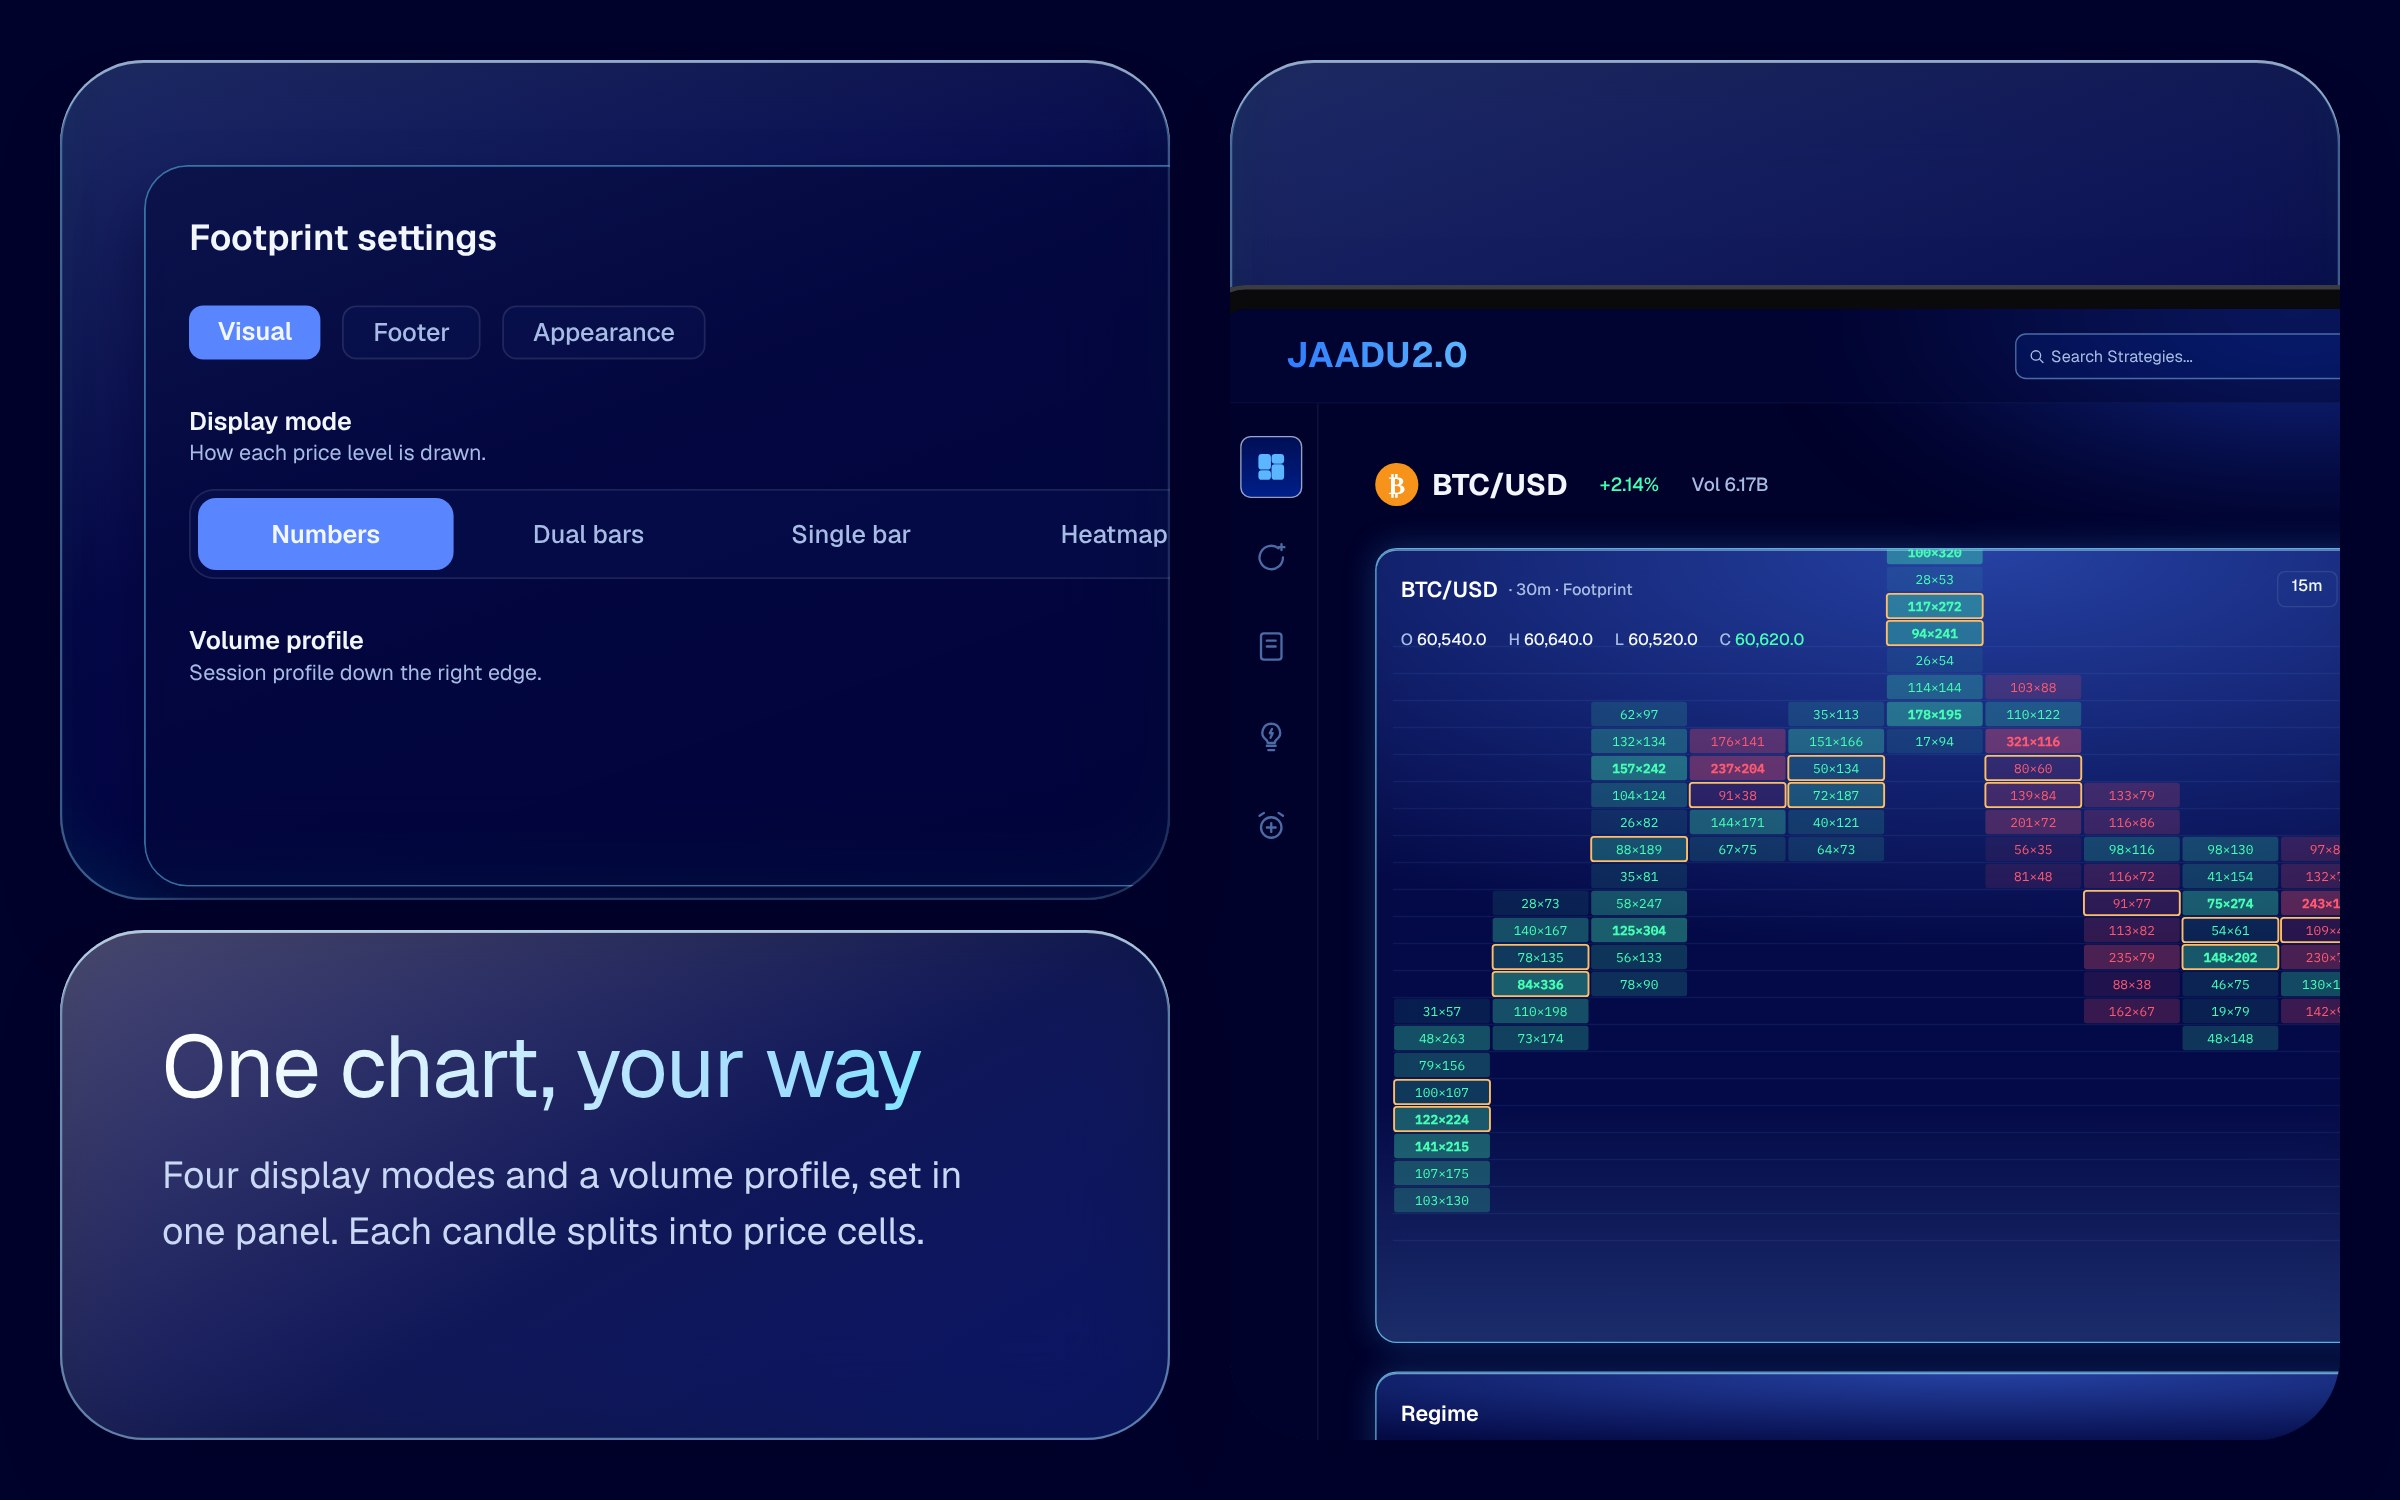
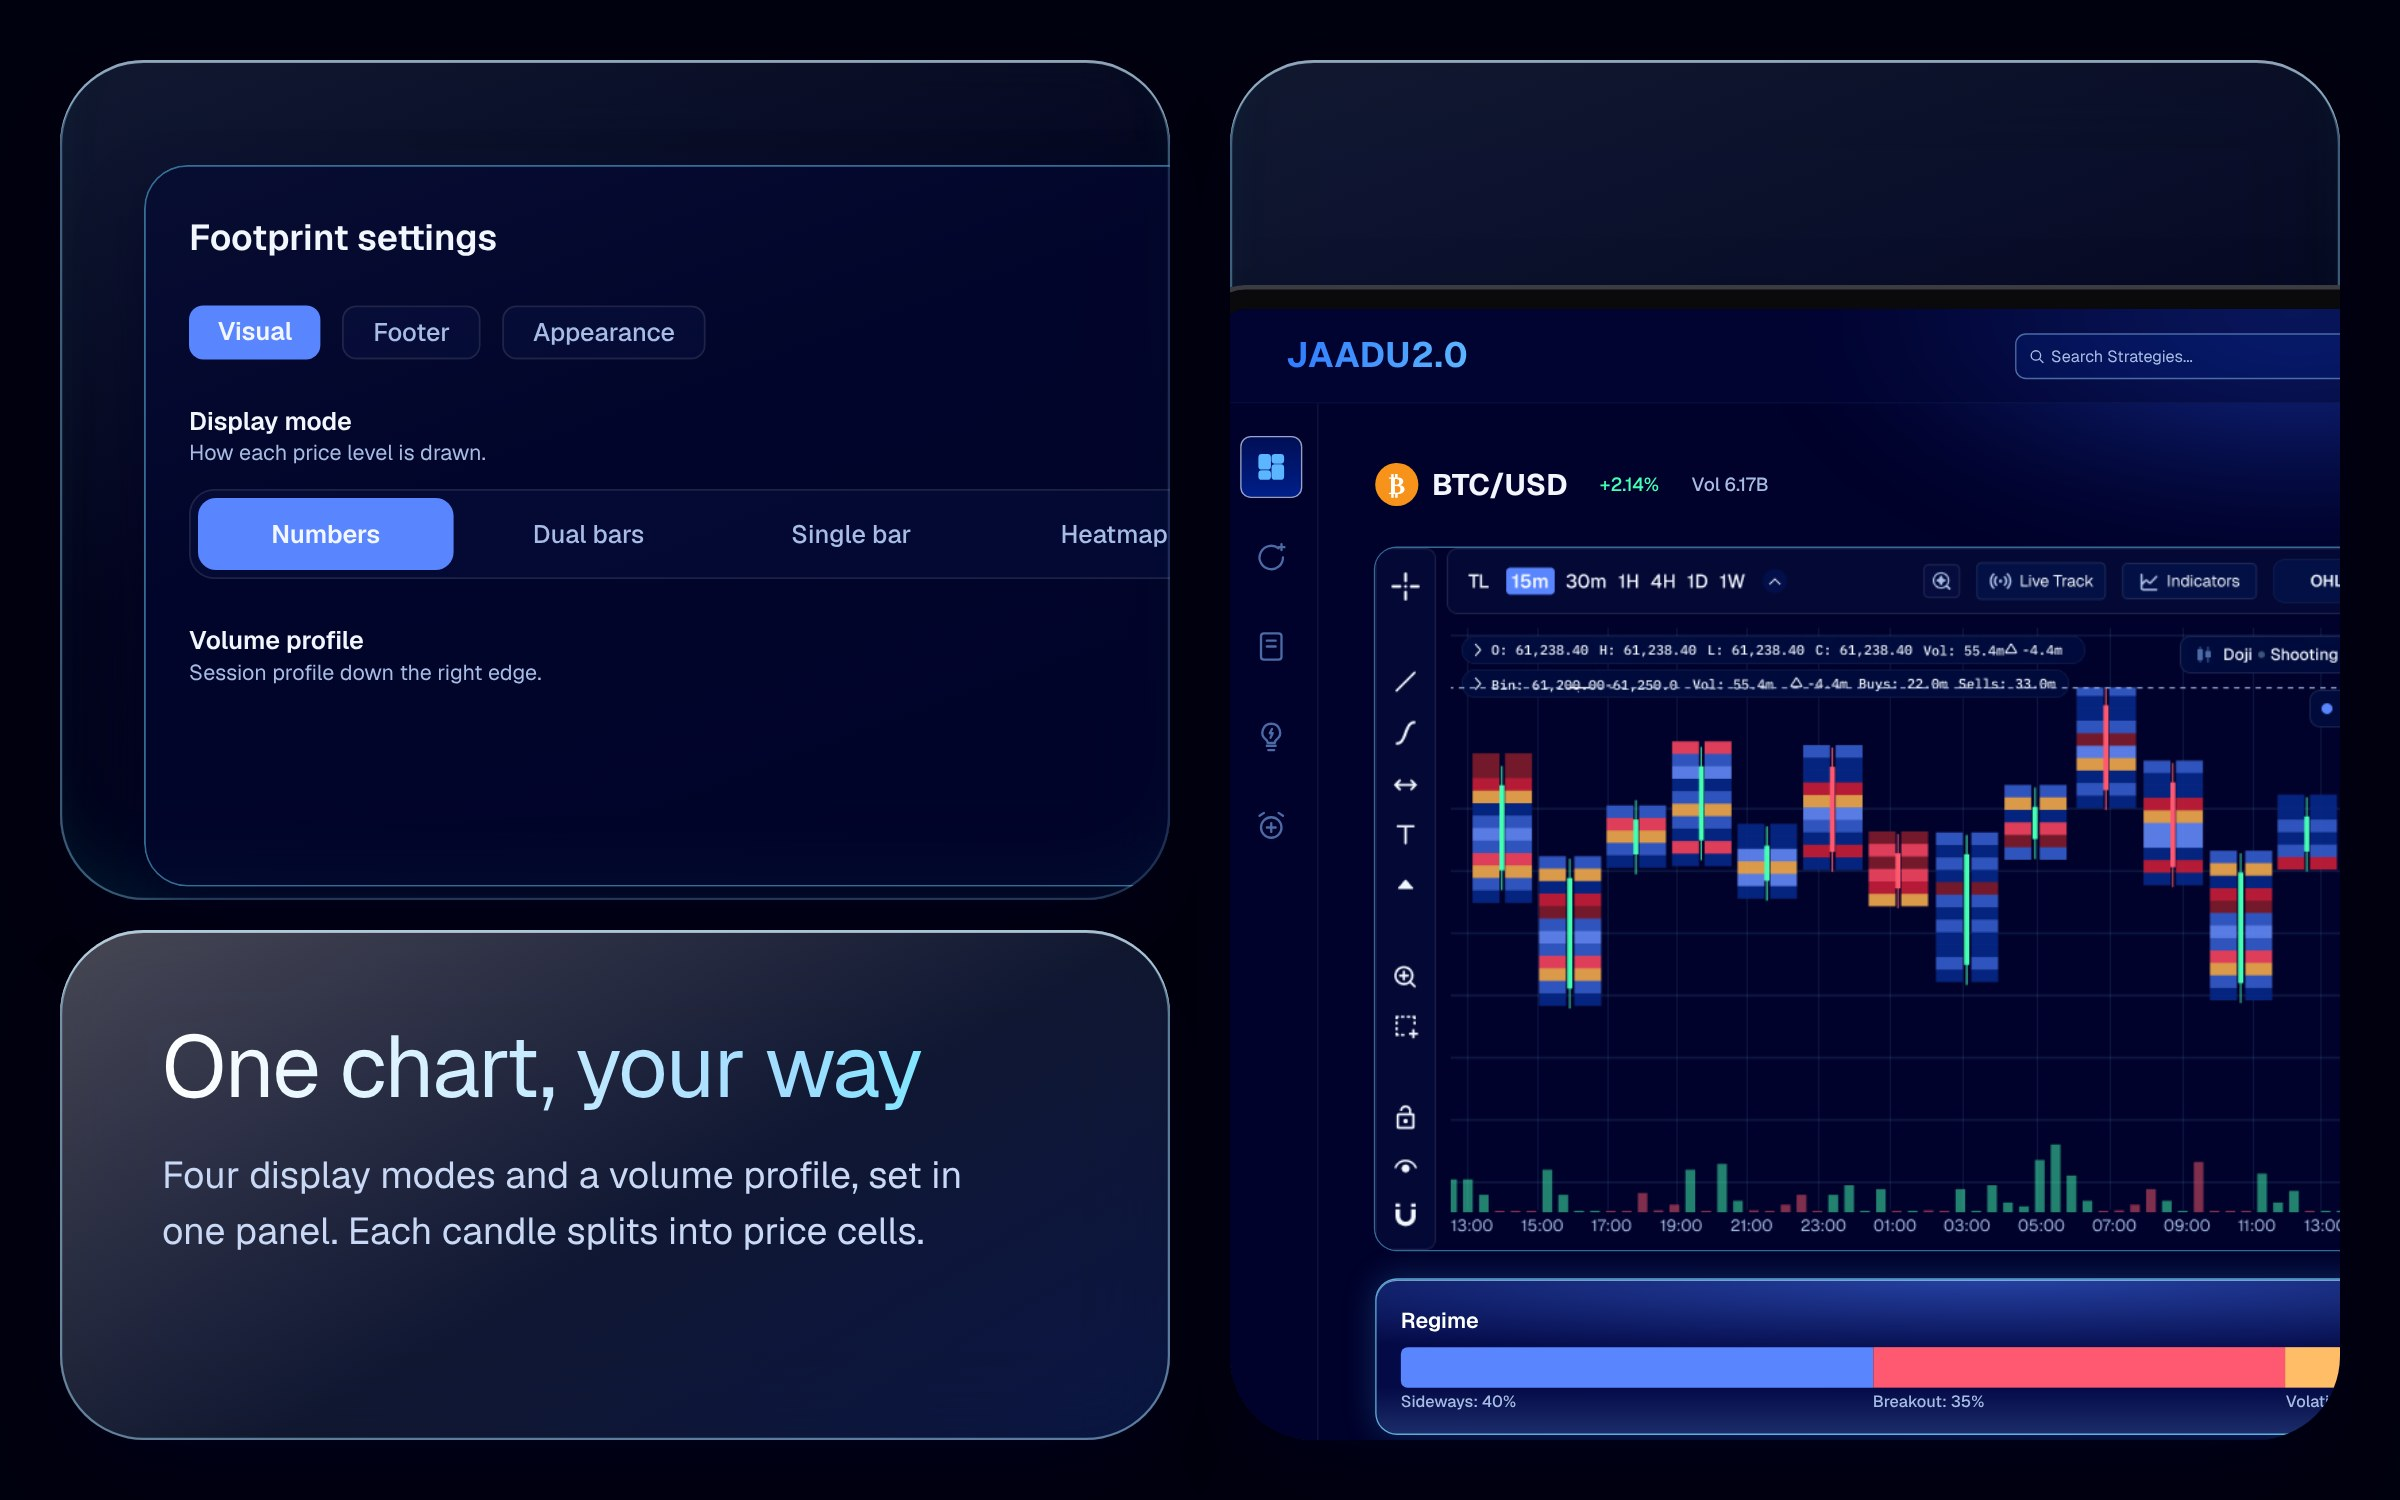
Jaadu modules: real Figma footprint chart, darker ground
Claude-Session: https://claude.ai/code/session_01L48ecgvWMXiCwrAdC3aGTG

diff --git a/scripts/mockups/jaadu/modules.html b/scripts/mockups/jaadu/modules.html
@@ -8,9 +8,9 @@
 @font-face{font-family:'IBM Plex Mono';font-weight:400;src:url(node_modules/@fontsource/ibm-plex-mono/files/ibm-plex-mono-latin-400-normal.woff2)}
 @font-face{font-family:'IBM Plex Mono';font-weight:500;src:url(node_modules/@fontsource/ibm-plex-mono/files/ibm-plex-mono-latin-500-normal.woff2)}
 body{margin:0;background:#fff}
-.mod{position:relative;width:1600px;overflow:hidden;font-family:Geist,sans-serif;margin:0 0 60px;background:#00022B}
+.mod{position:relative;width:1600px;overflow:hidden;font-family:Geist,sans-serif;margin:0 0 60px;background:#00010F}
 .orb{position:absolute;border-radius:50%;filter:blur(8px);pointer-events:none}
-.plate{position:absolute;overflow:hidden;border-radius:56px;background:linear-gradient(160deg,rgba(130,190,255,.22),rgba(60,100,230,.08) 45%,rgba(0,10,80,.18));backdrop-filter:blur(34px) saturate(1.5);-webkit-backdrop-filter:blur(34px) saturate(1.5);box-shadow:inset 0 0 0 1.5px rgba(150,215,255,.38),inset 0 2px 0 rgba(255,255,255,.5),inset 0 -30px 60px -30px rgba(0,255,255,.12),0 30px 60px -30px rgba(0,0,40,.7)}
+.plate{position:absolute;overflow:hidden;border-radius:56px;background:linear-gradient(160deg,rgba(130,190,255,.13),rgba(60,100,230,.05) 45%,rgba(0,10,80,.12));backdrop-filter:blur(34px) saturate(1.5);-webkit-backdrop-filter:blur(34px) saturate(1.5);box-shadow:inset 0 0 0 1.5px rgba(150,215,255,.38),inset 0 2px 0 rgba(255,255,255,.5),inset 0 -30px 60px -30px rgba(0,255,255,.12),0 30px 60px -30px rgba(0,0,40,.7)}
 .block{position:absolute;border-radius:56px;background:linear-gradient(150deg,rgba(255,255,255,.28),rgba(130,190,255,.12) 55%,rgba(38,83,207,.25));backdrop-filter:blur(34px) saturate(1.6);-webkit-backdrop-filter:blur(34px) saturate(1.6);color:#F1F6FF;padding:60px 68px;box-sizing:border-box;box-shadow:inset 0 0 0 1.5px rgba(170,225,255,.5),inset 0 2px 0 rgba(255,255,255,.6),0 30px 60px -30px rgba(0,0,40,.7)}
 .block h3{background:linear-gradient(90deg,#fff,#9fdcff 70%,#5ef2ff);-webkit-background-clip:text;color:transparent;font-weight:400;font-size:58px;margin:0;letter-spacing:-.02em;line-height:1.08}
 .block p{font-weight:400;font-size:25px;line-height:1.5;margin:22px 0 0;color:#C9D8F5;max-width:580px}
@@ -40,11 +40,11 @@ M.push(mod('m-overnight',1000,
  plate(40,40,740,920,lap(screenOvernight(),.9,40,150))+
  plate(820,40,740,560,cr(campaign(),893,259,1.2,72,150))+
  block(820,620,740,340,'Set it up. Wake to a shortlist','Pick coins and a timeframe. Jaadu runs three falsification stages overnight and keeps what survives.')))
-// 2 spotlight: footprint chart
+// 2 spotlight: footprint chart (the real Figma frame 1058:32183)
 M.push(mod('m-footprint',960,plate(40,40,1520,880,
- cr(footprint(907,589),907,589,1.38,140,110,16)+
- call(1520,880,710,279,880,110,'#45ffb5','Heaviest buying sits in the body',840,50)+
- call(1520,880,412,418,600,715,'#ffbd67','Point of control outlined',560,700))))
+ `<img src="assets/footprint.png" style="position:absolute;left:170px;top:120px;width:1179px;height:676px;border-radius:16px;box-shadow:0 24px 40px rgba(0,0,0,.55),0 0 0 1px rgba(103,209,255,.5)">`+
+ call(1520,880,1035,275,1000,70,'#5985ff','Regime read beside the price',830,50)+
+ call(1520,880,632,464,520,810,'#ffbd67','Each candle splits into price bins',360,790))))
 // 3 bento: market panels
 M.push(mod('m-panels',1000,
  plate(40,40,1520,300,cr(regime(912),912,116,1.45,99,66,16))+

diff --git a/scripts/mockups/jaadu/comp.js b/scripts/mockups/jaadu/comp.js
@@ -172,7 +172,7 @@ const screenOvernight = () => screenBase(`<div style="position:absolute;left:119
  <div style="flex:1"><div style="font:500 12px/16px Geist;color:${T.sec};margin-bottom:8px">Timeframe</div><div style="height:40px;box-sizing:border-box;background:${T.comp};border:.5px solid ${T.b10};border-radius:8px;padding:4px;display:flex;gap:4px"><span style="flex:1;border-radius:4px;background:${T.p400};display:grid;place-items:center;font:600 12px Geist;color:${T.tx}">Intra-day</span><span style="flex:1;display:grid;place-items:center;font:500 12px Geist;color:${T.tx}">Swing</span></div></div></div>
  <span style="background:${T.inp};border:1px solid ${T.inp};border-radius:8px;padding:8px 14px;font:500 12px/16px Geist;color:${T.tx};display:flex;gap:8px;align-items:center">${I('spin', 12, T.p700)}Running...</span></div>
  <div style="margin-top:-6px">${campaign()}</div></div>`, 3)
-const screenFootprint = () => screenBase(`<div style="position:absolute;left:112px;top:104px;display:flex;flex-direction:column;gap:21px"><div style="display:flex;gap:24px;align-items:center;height:52px;font:500 14px Geist;color:${T.sec}"><span style="display:flex;gap:10px;align-items:center;color:${T.tx};font:700 22px Geist">${btcCoin(32)}BTC/USD</span><span style="color:${T.green}">+2.14%</span><span>Vol 6.17B</span></div>${footprint(907, 589)}${regime()}</div>
+const screenFootprint = () => screenBase(`<div style="position:absolute;left:112px;top:104px;display:flex;flex-direction:column;gap:21px"><div style="display:flex;gap:24px;align-items:center;height:52px;font:500 14px Geist;color:${T.sec}"><span style="display:flex;gap:10px;align-items:center;color:${T.tx};font:700 22px Geist">${btcCoin(32)}BTC/USD</span><span style="color:${T.green}">+2.14%</span><span>Vol 6.17B</span></div><img src="assets/footprint.png" style="width:907px;height:520px;border-radius:16px;display:block;box-shadow:0 0 0 1px rgba(103,209,255,.5)">${regime()}</div>
  <div style="position:absolute;left:1048px;top:104px;display:flex;flex-direction:column;gap:16px">${coinStats()}${watchlist()}${trades(5, 212)}</div>`, 0)
 const screenDeja = () => screenBase(`<div style="position:absolute;left:119px;top:112px">${quantSide()}</div>
  <div style="position:absolute;left:492px;top:131px;width:893px">${hdr('hist', 'Deja Vu', 'Breakout-VAH-v3 · BTCUSDT 4h · 2024-06 → 2025-06 · 1y / 5s engine')}<div style="margin-top:16px;border-bottom:1px solid rgba(128,197,255,.06)">${dejaQuery()}</div></div>
